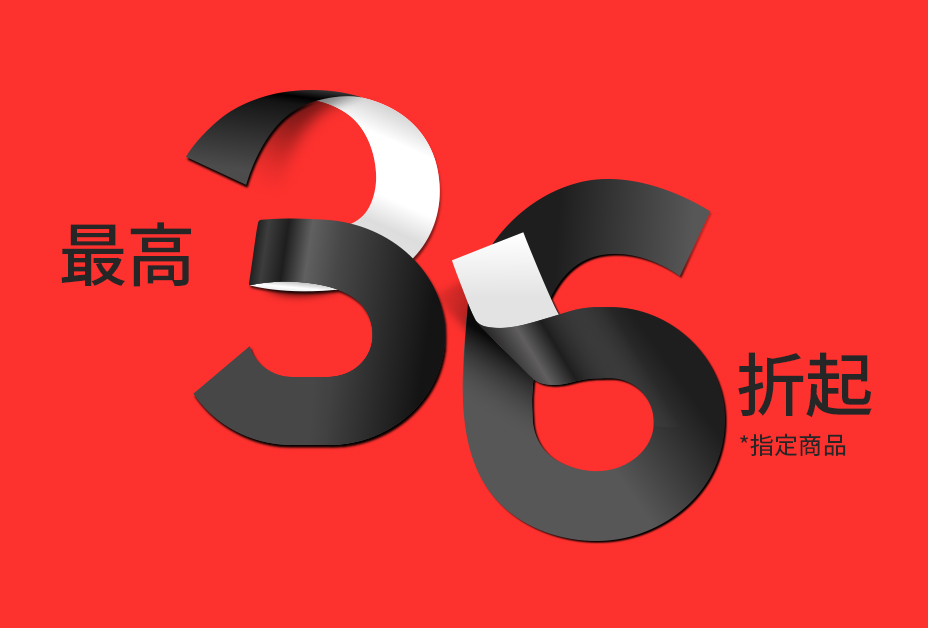
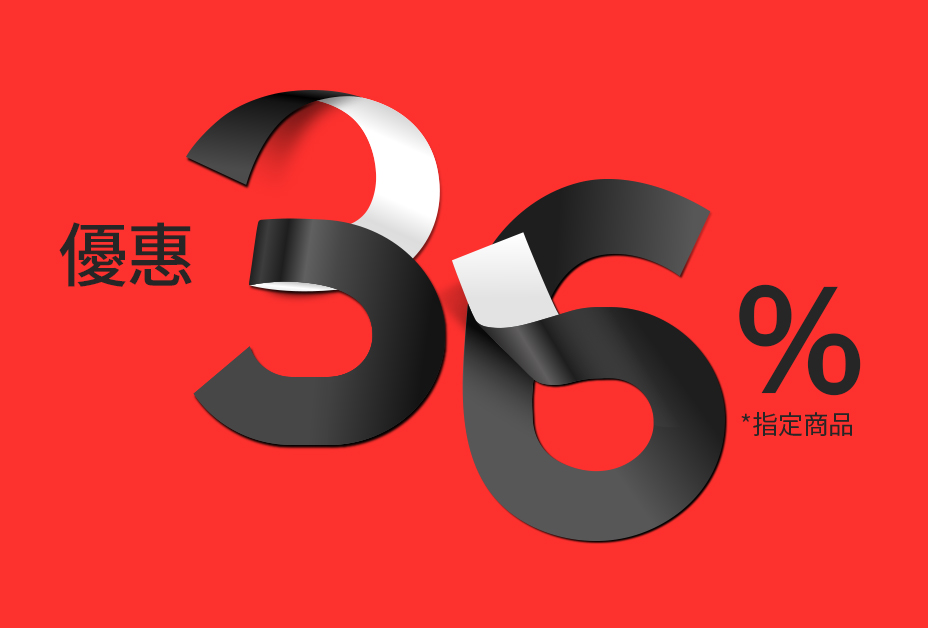
이탈리아, 대만 수정

Changed region(s): [[0.7812, 0.4538, 0.9375, 0.7261], [0.0625, 0.3631, 0.2188, 0.4538]]

diff --git a/src/tw/index.html b/src/tw/index.html
@@ -309,12 +309,12 @@
         <div class="visual">
           <div class="visual__visual">
             <div class="visual__inner">
-              <p class="visual__logo">LG 全球會員日</p>
+              <p class="visual__logo">會員專屬優惠</p>
               <h1 class="title">
                 Life’s Good<br>
-								會員優惠專屬獻禮
+                LG 全球會員日
               </h1>
-              <p class="desc">指定商品64折起，兩件以上再享83折</p>
+              <p class="desc">指定商品64折起，兩件以上再享9折</p>
               <p class="desc">優惠至10/10</p>
               <div class="term">
                 <a href="#">
@@ -356,10 +356,7 @@
 											<img src="../assets/images/tw/img_deals02.png" alt="">
 										</div>
 										<p class="title">搭配買更划算</p>
-										<p class="desc">
-											購買2件以上指定商品再享83折<br>
-											LG 官方會員獨享
-										</p>
+										<p class="desc">購買2件以上指定商品再享9折</p>
 										<a href="#sectionBuy" class="list-item__button"></a>
 									</div>
 									<div class="list-item__item">
@@ -367,7 +364,7 @@
 											<img src="../assets/images/tw/img_deals03.png" alt="">
 										</div>
 										<p class="title">會員獨享 件件98折</p>
-										<p class="desc">立即加入會員 獨享額外優惠</p>
+										<p class="desc">新會員再贈95折券 立即加入會員</p>
 										<a href="#sectionBuy" class="list-item__button"></a>
 									</div>
 								</div>
@@ -376,7 +373,7 @@
           </div>
           <div class="section" id="sectionHotdeal">
             <div class="section__inner">
-              <p class="title">引頸期盼的年度優惠！</p>
+              <p class="title">單件商品年度優惠</p>
               <p class="desc">指定商品64折起</p>
               <div class="tab">
                 <div class="tab__list">
@@ -860,10 +857,7 @@
           <div class="section" id="sectionBuy">
             <div class="section__inner">
               <p class="title">開啟組合優惠</p>
-              <p class="desc">
-								期間限定，購買2件以上指定產品，結帳即可查看獨家折扣<br>
-								新會員最高再享83折
-							</p>
+              <p class="desc">期間限定，購買2件以上指定產品，結帳即可再享9折</p>
               <div class="img">
                 <img src="../assets/images/tw/img_discount_pc.png" alt="" class="img__pc">
                 <img src="../assets/images/tw/img_discount_mo.png" alt="" class="img__mo">
@@ -1634,16 +1628,13 @@
           </div>
           <div class="section">
             <div class="section__inner">
-              <p class="title">Check our Life’s Good story</p>
+              <p class="title">一起探索讓Life's good的秘笈</p>
               <div class="banner">
                 <div class="banner__banner">
-                  <p class="title">
-										Brining the smile<br>
-										to the world
-									</p>
+                  <p class="title">讓生活更多微笑</p>
                   <div class="button">
                     <div class="button__row">
-                      <a href="#" class="button__item button__item--secondary">了解更多</a>
+                      <a href="#" class="button__item button__item--secondary">查看更多</a>
                     </div>
                   </div>
                 </div>
@@ -1664,7 +1655,10 @@
                   </div>
                   <div class="benefit-more__item">
                     <div class="benefit-more__group">
-                      <p class="title">指定回饋平台 期間加碼優惠</p>
+                      <p class="title">
+                        指定回饋平台<br>
+                        期間加碼
+                      </p>
                       <p class="desc">LINE 購物再享最高15% LINE POINTS；ShopBack 每週2-4加碼6%現金回饋無上限；街口支付領券加碼</p>
                     </div>
                     <i class="benefit-more__ico"></i>

diff --git a/src/assets/css/index_tw.scss b/src/assets/css/index_tw.scss
@@ -20,11 +20,6 @@
 	.benefit-more {
 
 		&__item {
-			display: flex;
-			flex: 1;
-			padding: 32px;
-			border-radius: 28px;
-			background-color: #fff;
 
 			&:nth-child(1) {
 
@@ -35,6 +30,10 @@
 
 			&:nth-child(2) {
 
+				.benefit-more__group {
+					margin-right: 32px;
+				}
+
 				.benefit-more__ico {
 					background-image: url('../images/tw/ico_benefit02.png');
 				}
@@ -44,6 +43,19 @@
 
 				.benefit-more__ico {
 					background-image: url('../images/tw/ico_benefit03.svg');
+				}
+			}
+		}
+
+		@media (max-width: 1024px) {
+
+			&__item {
+
+				&:nth-child(2) {
+					
+					.benefit-more__group {
+						margin-right: 12px;
+					}
 				}
 			}
 		}

diff --git a/src/assets/css/index_it.scss b/src/assets/css/index_it.scss
@@ -55,5 +55,12 @@
 				}
 			}
 		}
+
+		@media (max-width: 1024px) {
+
+			&__row {
+				display: block;
+			}
+		}
 	}
 }
